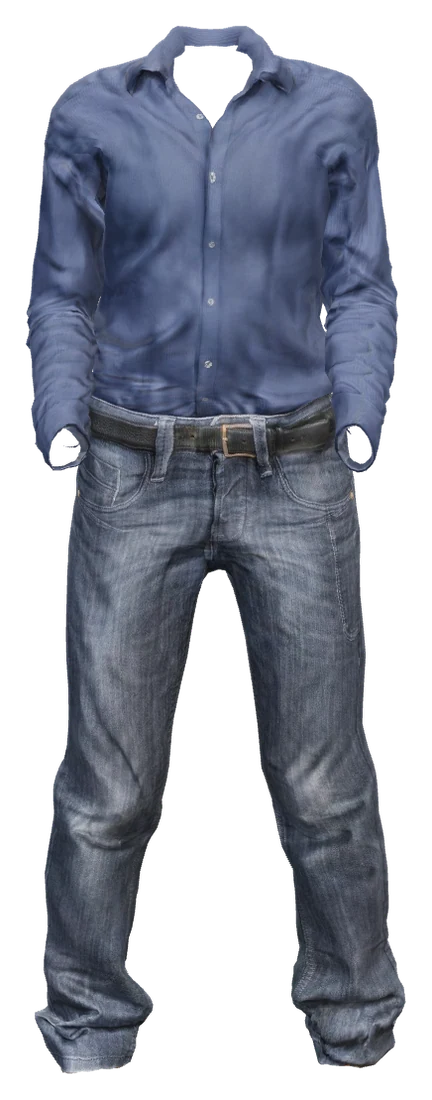
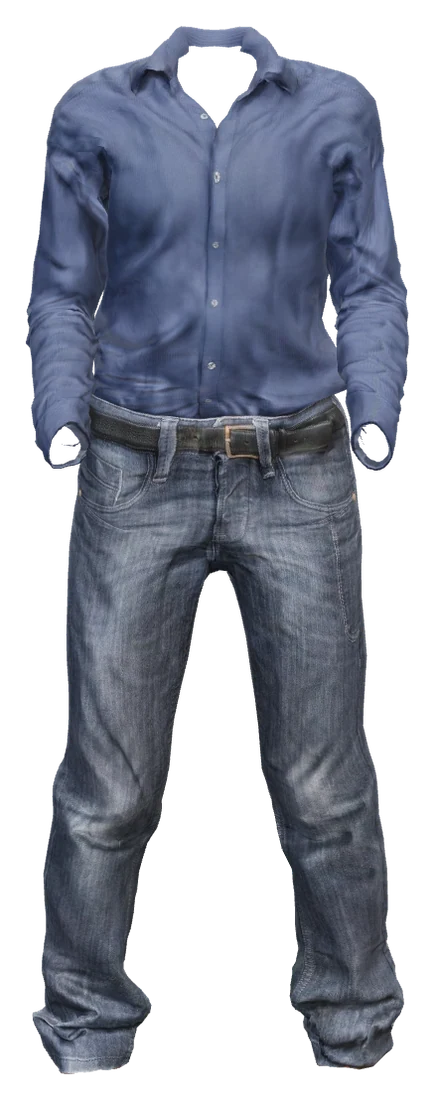
feat(exp/three-human): percha de tienda con giro de prendas y atuendo de partida
- Percha: las prendas cuelgan de perfil y la del centro gira hasta quedar de
  frente al llegar (fotogramas renderizados a 0/30/60/90° con fundido
  cruzado). Barra cromada a todo el ancho detrás del modelo, etiqueta
  amarilla, pared gris (Showroom al entrar) y título en bajorrelieve
  "mujer / conjuntos".
- Zona de clic estrecha por prenda: los recortes se solapan en la barra.
- Todos empiezan con camiseta blanca, vaqueros y zapatillas blancas.
- Motor: la pose de reposo se captura de frente, así que un modelo girado (o
  los renders de perfil) conserva los brazos naturales tras re-hornear;
  setYaw() para las vistas fijas.
- 36 recortes nuevos (conjuntos a 30/60/90°) y los de prendas regenerados.

diff --git a/frontend/src/human/studio/Hanger.tsx b/frontend/src/human/studio/Hanger.tsx
@@ -1,18 +1,24 @@
-// The closet view: garments hang from a chrome rail beside the model, the one in front grows and gets
-// its name tag. Same handle as the arc, so the page drives both the same way.
+// The closet view, after a real clothes rail: garments hang in profile along a chrome bar, and the one
+// in front turns to face you as it slides into place (pre-rendered frames every 30°, cross-faded), grows,
+// and gets its yellow name tag. Same handle as the arc, so the page drives both the same way.
 import { forwardRef, useEffect, useImperativeHandle, useRef } from 'react';
 import type { ArcHandle, ArcItem } from './Arc';
 
+export const ANGLES = [0, 30, 60, 90];
 const REDUCED = typeof matchMedia !== 'undefined' && matchMedia('(prefers-reduced-motion: reduce)').matches;
 
-export const Hanger = forwardRef<ArcHandle, { items: ArcItem[]; selected: number; onSettle: (i: number) => void }>(
+export type HangItem = ArcItem & { turns?: string[] }; // image per angle in ANGLES order (front … profile)
+
+export const Hanger = forwardRef<ArcHandle, { items: HangItem[]; selected: number; onSettle: (i: number) => void }>(
   function Hanger({ items, selected, onSettle }, ref) {
     const host = useRef<HTMLDivElement>(null);
     const n = items.length;
     const st = useRef({ pos: Math.max(0, selected), target: Math.max(0, selected), dragging: false, p0: 0, lastX: 0, lastT: 0, vel: 0, settled: selected });
     const settleRef = useRef(onSettle);
     settleRef.current = onSettle;
-    const gap = () => (host.current?.clientWidth || innerWidth) * 0.15;
+    const W = () => host.current?.clientWidth || innerWidth;
+    const side = () => W() * 0.075; // spacing between garments in profile
+    const front = () => W() * 0.15; // the one in front needs room to open up
     const clamp = (v: number) => Math.max(0, Math.min(n - 1, v));
 
     useEffect(() => {
@@ -27,7 +33,7 @@ export const Hanger = forwardRef<ArcHandle, { items: ArcItem[]; selected: number
         if (!s.dragging) { s.dragging = true; s.p0 = s.pos; s.lastX = 0; s.lastT = now; }
         s.vel = (dx - s.lastX) / Math.max(1, now - s.lastT);
         s.lastX = dx; s.lastT = now;
-        s.pos = s.p0 - dx / gap();
+        s.pos = s.p0 - dx / side();
       },
       release() {
         const s = st.current;
@@ -49,16 +55,27 @@ export const Hanger = forwardRef<ArcHandle, { items: ArcItem[]; selected: number
         raf = requestAnimationFrame(loop);
         const s = st.current, t = tms / 1000;
         if (!s.dragging) s.pos = REDUCED ? s.target : s.pos + (s.target - s.pos) * 0.12;
-        const w = host.current?.clientWidth || innerWidth, g = gap();
+        const cx = W() * 0.4, fg = front(), sg = side();
+        const speed = s.target - s.pos;
         Array.from(host.current?.querySelectorAll<HTMLElement>('.item') ?? []).forEach((el, i) => {
-          const u = i - s.pos, a = Math.abs(u);
-          const sc = 1 + 0.2 * Math.max(0, 1 - a);
-          // garments swing a little as the rail moves, like real hangers
-          const swing = REDUCED ? 0 : Math.max(-8, Math.min(8, (s.target - s.pos) * 6)) + Math.sin(t * 1.3 + i) * 0.6;
-          el.style.transform = `translateX(${w / 2 + u * g}px) rotate(${swing}deg) scale(${sc})`;
+          const u = i - s.pos, a = Math.abs(u), k = Math.min(1, a);
+          // neighbours step aside by the front garment's half width, the rest are packed like a real rail
+          const x = cx + Math.sign(u) * (k * fg + Math.max(0, a - 1) * sg);
+          const sc = 1 + 0.12 * (1 - k);
+          const swing = REDUCED ? 0 : Math.max(-7, Math.min(7, speed * 5)) * (0.4 + 0.6 * k) + Math.sin(t * 1.2 + i * 1.9) * 0.5 * k;
+          el.style.transform = `translateX(${x}px) rotate(${swing.toFixed(2)}deg) scale(${sc})`;
           el.style.zIndex = String(100 - Math.round(a * 10));
-          el.style.opacity = String(a > 3.2 ? Math.max(0, 1 - (a - 3.2) / 0.8) : 1);
+          el.style.opacity = String(x > W() + 200 || x < -200 ? 0 : 1);
           el.classList.toggle('on', a < 0.5);
+          // turn: 0° in front, 90° (profile) from one slot away; cross-fade the two nearest frames
+          const deg = 90 * k;
+          const frames = el.querySelectorAll<HTMLElement>('.turn');
+          if (frames.length > 1) {
+            const f = deg / 30, lo = Math.floor(f), mix = f - lo;
+            frames.forEach((fr, j) => { fr.style.opacity = String(j === lo ? 1 - mix : j === lo + 1 ? mix : 0); });
+          } else if (frames.length === 1) {
+            frames[0].style.transform = `scaleX(${1 - 0.55 * k})`; // no side render (hair, extras): squeeze
+          }
         });
         if (!s.dragging && Math.abs(s.target - s.pos) < 0.02 && Math.round(s.target) !== s.settled) {
           s.settled = Math.round(s.target);
@@ -73,11 +90,15 @@ export const Hanger = forwardRef<ArcHandle, { items: ArcItem[]; selected: number
       <div ref={host} className="hanger">
         <div className="bar" />
         {items.map((it, i) => (
-          <div key={it.key} className="item" data-slot={i} style={{ left: 0 }}>
+          <div key={it.key} className="item">
+            <span className="hit" data-slot={i} />
             <span className="hook" />
-            <div className="img" style={{ backgroundImage: it.img ? `url(${it.img})` : undefined }}>
-              {it.none && <div style={{ position: 'absolute', inset: '20% 20% 40%', display: 'grid', placeItems: 'center', fontSize: '8vh', fontWeight: 200, opacity: 0.7 }}>∅</div>}
-              {it.swatch && !it.img && <div style={{ position: 'absolute', left: '25%', right: '25%', top: '10%', aspectRatio: '1', borderRadius: 999, background: it.swatch }} />}
+            <div className="img">
+              {(it.turns ?? (it.img ? [it.img] : [])).map((src, j) => (
+                <div key={j} className="turn" style={{ backgroundImage: `url(${src})` }} />
+              ))}
+              {it.none && <div className="nil">∅</div>}
+              {it.swatch && !it.img && <div className="sw" style={{ background: it.swatch }} />}
             </div>
             <span className="label">{it.title}</span>
           </div>

diff --git a/frontend/src/human/studio/Studio.tsx b/frontend/src/human/studio/Studio.tsx
@@ -7,7 +7,7 @@ import './studio.css';
 import { HumanEngine, type Accessory, type Pick } from '../engine';
 import { Speech } from '../speech';
 import { Arc, type ArcHandle, type ArcItem } from './Arc';
-import { Hanger } from './Hanger';
+import { ANGLES, Hanger, type HangItem } from './Hanger';
 import { liquidGlass } from './liquid';
 import {
   ACCESSORIES, BACKDROPS, CHARACTERS, FACE_GROUPS, FIT_TABS, GARMENT_NAMES, HAIR_TINTS, L, PROMPTS, TINTS, categoryOf, es,
@@ -34,6 +34,7 @@ const PART_LABEL: Record<string, string> = {
   clothes: L('OUTFIT', 'ROPA'), shoes: L('SHOES', 'ZAPATOS'), hat: L('HAT', 'SOMBRERO'), hair: L('HAIR', 'PELO'),
   accessory: L('EXTRAS', 'ACCESORIOS'), body: L('FACE · BODY', 'CARA · CUERPO'), eyes: L('EYES', 'OJOS'), eyebrows: L('FACE', 'CARA'),
 };
+const STARTER = ['male_casualsuit06', 'shoes05']; // white tee + jeans, white sneakers (fits any body)
 const family = (id: Accessory['id']) => (id === 'hoops' || id === 'studs' ? 'ears' : 'eyes');
 
 export function Studio({ serverUrl, onBack }: { serverUrl: string; onBack: () => void }) {
@@ -53,7 +54,8 @@ export function Studio({ serverUrl, onBack }: { serverUrl: string; onBack: () =>
   const [charTab, setCharTab] = useState<CharTab>('body');
   const [view, setView] = useState<'arc' | 'hanger'>('arc');
   const [backdrop, setBackdrop] = useState('atelier');
-  const [avatar, setAvatar] = useState<Avatar>(() => fromCharacter(CHARACTERS[0]));
+  // everyone starts in the classic white tee and jeans; the character's own outfit is one click away
+  const [avatar, setAvatar] = useState<Avatar>(() => ({ ...fromCharacter(CHARACTERS[0]), clothes: [...STARTER], tints: {}, accessories: [] }));
   const [charId, setCharId] = useState<string | null>(CHARACTERS[0].id);
   const [lastChar, setLastChar] = useState(0);
   const [history, setHistory] = useState<Avatar[]>([]);
@@ -230,7 +232,7 @@ export function Studio({ serverUrl, onBack }: { serverUrl: string; onBack: () =>
   }
 
   // ------------------------------------------------------------------ carousel contents
-  const fitItems = useMemo<{ items: ArcItem[]; ids: (string | null)[] }>(() => {
+  const fitItems = useMemo<{ items: HangItem[]; ids: (string | null)[] }>(() => {
     if (!catalog) return { items: [], ids: [] };
     const none = (cat: string): ArcItem => ({ key: `none-${cat}`, title: L('None', 'Ninguno'), none: true });
     if (fitTab === 'accessories') {
@@ -241,7 +243,10 @@ export function Studio({ serverUrl, onBack }: { serverUrl: string; onBack: () =>
     }
     const list = catalog.clothes.filter((c) => categoryOf(c.id) === fitTab);
     const sub = { outfits: L('Outfit', 'Conjunto'), shoes: L('Shoes', 'Zapatos'), hats: L('Hat', 'Sombrero') }[fitTab as 'outfits'];
-    const items = list.map((c) => ({ key: c.id, title: GARMENT_NAMES[c.id] ?? c.label, sub, img: cut(`garment_${c.id}`) }));
+    const items: HangItem[] = list.map((c) => ({
+      key: c.id, title: GARMENT_NAMES[c.id] ?? c.label, sub, img: cut(`garment_${c.id}`),
+      turns: fitTab === 'outfits' ? ANGLES.map((d) => cut(d ? `garment_${c.id}_a${d}` : `garment_${c.id}`)) : undefined,
+    }));
     return fitTab === 'outfits' ? { items, ids: list.map((c) => c.id) } : { items: [none(fitTab), ...items], ids: [null, ...list.map((c) => c.id)] };
   }, [catalog, fitTab]);
 
@@ -421,9 +426,16 @@ export function Studio({ serverUrl, onBack }: { serverUrl: string; onBack: () =>
       onPointerDown={onPointerDown} onPointerMove={onPointerMove} onPointerUp={onPointerUp} onPointerCancel={onPointerUp}
       onPointerLeave={() => setCursor('')}>
       <div ref={bgRef} className="st-bg" data-bg={backdrop} />
-      <div ref={ghostRef} className="st-ghost" key={word}>
-        {[...word].map((ch, i) => <span key={i} style={{ animation: `rise 1.1s cubic-bezier(.2,.8,.2,1) ${i * 0.05}s backwards` }}>{ch}</span>)}
-      </div>
+      {showArc ? (
+        <div ref={ghostRef} className="st-ghost" key={word}>
+          {[...word].map((ch, i) => <span key={i} style={{ animation: `rise 1.1s cubic-bezier(.2,.8,.2,1) ${i * 0.05}s backwards` }}>{ch}</span>)}
+        </div>
+      ) : (
+        <div className="st-wall" key={`wall-${fitTab}`}>
+          {(avatar.pheno.gender ?? 0) > 0.6 ? L('men', 'hombre') : (avatar.pheno.gender ?? 0) < 0.4 ? L('women', 'mujer') : L('everyone', 'todos')} /<br />
+          {(FIT_TABS.find((t) => t[0] === fitTab)?.[1] ?? '').toLowerCase()}
+        </div>
+      )}
 
       {showArc && catalog && (mode === 'character'
         ? <Arc key="chars" ref={arc} items={charItems} selected={charSelected} variant="figure" onSettle={useCharacter} />
@@ -448,7 +460,11 @@ export function Studio({ serverUrl, onBack }: { serverUrl: string; onBack: () =>
       </div>
       <div className="st-corner r">
         {mode === 'fitting' && (
-          <button className="chip glass" onClick={() => setView((v) => (v === 'arc' ? 'hanger' : 'arc'))} title={L('Switch view', 'Cambiar vista')}>
+          <button className="chip glass" onClick={() => {
+            // the closet borrows the shop look: cool grey wall, chrome rail
+            if (view === 'arc' && backdrop === 'atelier') setBackdrop('showroom');
+            setView((v) => (v === 'arc' ? 'hanger' : 'arc'));
+          }} title={L('Switch view', 'Cambiar vista')}>
             {view === 'arc' ? <IconHanger /> : <IconArc />}<span>{view === 'arc' ? L('Closet', 'Percha') : L('Arc', 'Arco')}</span>
           </button>
         )}

diff --git a/frontend/src/human/studio/studio.css b/frontend/src/human/studio/studio.css
@@ -168,15 +168,27 @@
 .fig .tag { position: absolute; left: 50%; bottom: -5.2vh; transform: translateX(-50%); white-space: nowrap; font-size: 12px; font-weight: 600; color: var(--label); opacity: 0; transition: opacity .3s; }
 .fig:hover .tag { opacity: 1; }
 
-/* ---------------------------------------------------------------- hanger rail */
-.hanger { position: absolute; left: 0; right: 34vw; top: 15vh; height: 70vh; z-index: 9; touch-action: pan-y; }
-.hanger .bar { position: absolute; left: -2vw; right: -2vw; top: 0; height: 9px; border-radius: 9px; background: linear-gradient(180deg, #f4f6f8, #a9afb6 55%, #7d838b); box-shadow: 0 6px 14px -6px rgba(0, 0, 0, .45); }
-.hanger .item { position: absolute; top: 4px; width: 12vw; height: 38vh; margin-left: -6vw; transform-origin: 50% 0; will-change: transform; }
-.hanger .hook { position: absolute; left: 50%; top: 0; width: 22px; height: 30px; margin-left: -11px; border: 2.5px solid #2a2a2c; border-bottom: 0; border-radius: 12px 12px 0 0; }
-.hanger .hook::after { content: ''; position: absolute; left: 50%; top: 26px; width: 3px; height: 18px; margin-left: -1.5px; background: #2a2a2c; }
-.hanger .img { position: absolute; left: 0; right: 0; top: 46px; bottom: 0; background: center top / contain no-repeat; filter: drop-shadow(0 18px 18px rgba(0, 0, 0, .28)); }
-.hanger .label { position: absolute; left: 50%; bottom: -3.4vh; transform: translateX(-50%); padding: 5px 9px; font-size: 13px; font-weight: 700; letter-spacing: .02em; text-transform: uppercase; white-space: nowrap; background: #ffe600; color: #111; opacity: 0; transition: opacity .3s; }
+/* ---------------------------------------------------------------- hanger rail
+   After a real shop rail: chrome bar across the room, garments in profile, the front one turned to face
+   you with a yellow tag, a debossed section title on the wall above. */
+.hanger { position: absolute; left: 0; right: 0; top: 30vh; height: 46vh; z-index: 9; touch-action: pan-y; }
+.hanger .bar { position: absolute; left: -2vw; right: -2vw; top: 0; height: 8px; border-radius: 8px; background: linear-gradient(180deg, #fbfcfd, #b9bec4 50%, #80868d); box-shadow: 0 8px 16px -8px rgba(0, 0, 0, .5); }
+.hanger .item { pointer-events: none; }
+.hanger .hit, .hanger .hook { pointer-events: auto; }
+.hanger .item { position: absolute; left: 0; top: 2px; width: 12vw; height: 34vh; margin-left: -6vw; transform-origin: 50% 0; will-change: transform; }
+.hanger .hook { position: absolute; left: 50%; top: 0; width: 18px; height: 22px; margin-left: -9px; border: 2.5px solid #1d1d1f; border-bottom: 0; border-radius: 10px 10px 0 0; }
+.hanger .hook::after { content: ''; position: absolute; left: 50%; top: 18px; width: 2.5px; height: 14px; margin-left: -1.25px; background: #1d1d1f; }
+.hanger .hit { position: absolute; left: 22%; right: 22%; top: 0; bottom: 0; }
+.hanger .item.on .hit { left: -10%; right: -10%; }
+.hanger .img { pointer-events: none; position: absolute; left: -20%; right: -20%; top: 30px; bottom: 0; filter: drop-shadow(0 22px 18px rgba(0, 0, 0, .3)); }
+/* frames keep the garment's height, so front and profile line up when they cross-fade */
+.hanger .turn { position: absolute; inset: 0; background: center top / auto 100% no-repeat; transform-origin: 50% 0; }
+.hanger .nil { position: absolute; inset: 10% 30% 50%; display: grid; place-items: center; font-size: 7vh; font-weight: 200; opacity: .7; }
+.hanger .sw { position: absolute; left: 35%; right: 35%; top: 6%; aspect-ratio: 1; border-radius: 999px; }
+.hanger .label { position: absolute; left: 50%; top: calc(100% + 1.6vh); transform: translateX(-50%); padding: 5px 9px; font-size: 13px; font-weight: 700; letter-spacing: .02em; text-transform: uppercase; white-space: nowrap; background: #ffe600; color: #111; opacity: 0; transition: opacity .3s; }
 .hanger .item.on .label { opacity: 1; }
+.st-wall { position: absolute; left: 0; right: 30vw; top: 9vh; z-index: 2; text-align: center; pointer-events: none; font-weight: 500; font-size: min(12vh, 9vw); line-height: .86; letter-spacing: -.045em; text-transform: lowercase; color: rgba(0, 0, 0, .08); text-shadow: 0 2px 1px rgba(255, 255, 255, .2), 0 -1px 1px rgba(0, 0, 0, .22); }
+.st[data-tone='light'] .st-wall { color: rgba(0, 0, 0, .05); text-shadow: 0 2px 1px rgba(255, 255, 255, .7), 0 -1px 1px rgba(0, 0, 0, .14); }
 
 /* ---------------------------------------------------------------- look card + prompt */
 .look { color: var(--label); }
@@ -265,7 +277,9 @@
   .look .thumb { width: 48px; height: 48px; }
   .panel { left: 12px; right: 12px; width: auto; top: auto; height: 34vh; bottom: calc(2.4vh + 124px); }
   .st[data-mode='character'] .look { display: none; }
-  .hanger { right: 0; top: calc(3.2vh + 140px); }
+  .hanger { top: 30vh; height: 40vh; }
+  .hanger .item { width: 28vw; height: 26vh; margin-left: -14vw; }
+  .st-wall { right: 0; top: 17vh; font-size: 9vh; }
   .st-corner.r .chip span { display: none; }
   .st-corner.r .chip { width: 40px; padding: 0; justify-content: center; }
 }

diff --git a/frontend/src/human/studio/Generate.tsx b/frontend/src/human/studio/Generate.tsx
@@ -5,6 +5,9 @@ import { HumanEngine } from '../engine';
 import { CHARACTERS, categoryOf } from './presets';
 import { HUMAN_URL, bake, fromCharacter, lookOf, type Avatar, type Catalog } from './avatar';
 
+import { ANGLES } from './Hanger';
+
+const THREE_DEG = Math.PI / 180;
 const BASE_F = fromCharacter(CHARACTERS[0]);
 const BASE_M = fromCharacter(CHARACTERS[13]);
 
@@ -18,7 +21,7 @@ export function Generate() {
     (async () => {
       const cat = (await (await fetch(`${HUMAN_URL}/catalog`)).json()) as Catalog;
       const only = new URLSearchParams(location.search).get('only'); // e.g. only=char or only=hair
-      type Job = { name: string; avatar: Avatar; isolate: string[] | null; frame: () => void };
+      type Job = { name: string; avatar: Avatar; isolate: string[] | null; yaw?: number; frame: () => void };
       const jobs: Job[] = [];
       for (const c of CHARACTERS) {
         jobs.push({ name: `char_${c.id}`, avatar: fromCharacter(c), isolate: null, frame: () => engine.frame('full') });
@@ -27,9 +30,15 @@ export function Generate() {
         const kind = categoryOf(g.id);
         const base = g.id.startsWith('male_') ? BASE_M : BASE_F;
         const avatar: Avatar = { ...base, clothes: [g.id], tints: {}, accessories: [], hair: kind === 'hats' ? '' : base.hair };
-        jobs.push({ name: `garment_${g.id}`, avatar, isolate: [g.id],
+        jobs.push({ name: `garment_${g.id}`, avatar, isolate: [g.id], yaw: 0,
           frame: kind === 'shoes' ? () => engine.frameBones('foot.L', 'foot.R', 2.4)
             : kind === 'hats' ? () => engine.frame('bust') : () => engine.frame('full') });
+        // the closet turns outfits from profile (on the rail) to front (pulled out): one frame every 30°
+        if (kind === 'outfits') {
+          for (const deg of ANGLES.slice(1)) {
+            jobs.push({ name: `garment_${g.id}_a${deg}`, avatar, isolate: [g.id], yaw: THREE_DEG * deg, frame: () => engine.frame('full') });
+          }
+        }
       }
       for (const h of cat.hair) {
         jobs.push({ name: `hair_${h.id}`, avatar: { ...BASE_F, hair: h.id, hairColor: '#ffffff', accessories: [] },
@@ -45,6 +54,7 @@ export function Generate() {
         if (only && !job.name.startsWith(only)) continue;
         try {
           await engine.load(await bake(cat, job.avatar), lookOf(cat, job.avatar));
+          engine.setYaw(job.yaw ?? 0);
           engine.isolate(job.isolate, job.isolate === null);
           job.frame();
           const png = await (await fetch(await engine.cutout())).blob();

diff --git a/frontend/src/human/engine.ts b/frontend/src/human/engine.ts
@@ -186,6 +186,11 @@ export class HumanEngine {
         if (mesh.morphTargetDictionary) this.morphMeshes.push(mesh);
       }
     });
+    // capture the rest pose facing the stage front: the animator's axes are defined in that frame, so a
+    // person turned by the user (or the closet renders) keeps natural arms after a re-bake
+    const yaw = this.root.rotation.y;
+    this.root.rotation.y = 0;
+    this.root.updateMatrixWorld(true);
     model.updateMatrixWorld(true);
     for (const [name, b] of this.bones) {
       const parentWorld = new THREE.Quaternion();
@@ -199,6 +204,7 @@ export class HumanEngine {
       this.armDrop[side] = THREE.MathUtils.clamp(rest + 1.36, 0, 1.6);
     }
     this.anchorAccessories();
+    this.root.rotation.y = yaw;
     await this.setLook(look);
     if (first) this.frame('bust');
   }
@@ -443,6 +449,11 @@ export class HumanEngine {
     this.controls.update();
   }
   private camGoal: { target: THREE.Vector3; pos: THREE.Vector3 } | null = null;
+
+  /** Face a fixed direction (0 = towards the stage front); used for the closet's side views. */
+  setYaw(rad: number) {
+    this.root.rotation.y = rad;
+  }
 
   /** Turn the person on the spot (drag on the body in the studio). */
   turn(rad: number) {

diff --git a/docs/three-human/REPORT.md b/docs/three-human/REPORT.md
@@ -20,7 +20,8 @@ Fecha: 2026-11-04 · Rama: `exp/three-human` · Decide: Marcelo
 
 **Cómo se elige.**
 - **Arco de tarjetas de cristal.** Al asentarse, la prenda se prueba con la línea de escaneo.
-- **Percha.** Vista alternativa inspirada en un colgador real; se cambia con el botón "Percha / Arco".
+- **Percha.** Vista alternativa inspirada en una tienda real; se cambia con el botón "Percha / Arco". Las prendas cuelgan de perfil en una barra cromada y la del centro gira hasta quedar de frente (fotogramas a 0°, 30°, 60° y 90°, con fundido cruzado). Lleva etiqueta amarilla, pared gris y título en bajorrelieve ("mujer / conjuntos").
+- **Atuendo de partida:** camiseta blanca y vaqueros.
 - **Clic directo sobre el cuerpo.** La ropa abre Conjuntos, el pelo abre Pelo y la cara abre los sliders de Cara.
 - **Texto o voz.** Por ejemplo: "ponle aros dorados y cambia la ropa a blanco".
 
